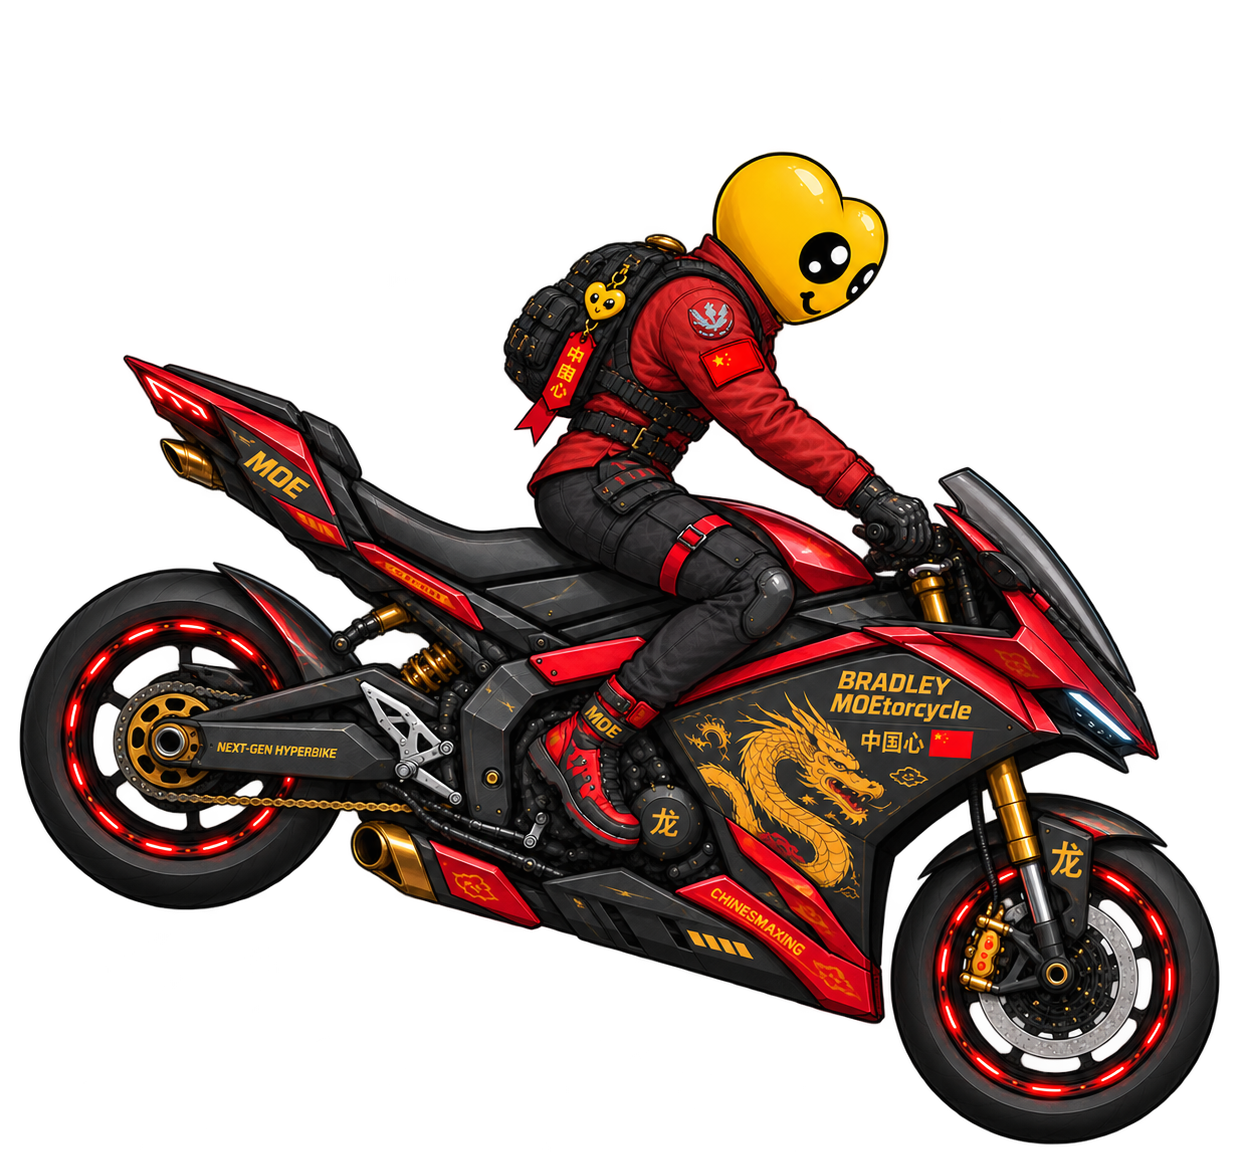
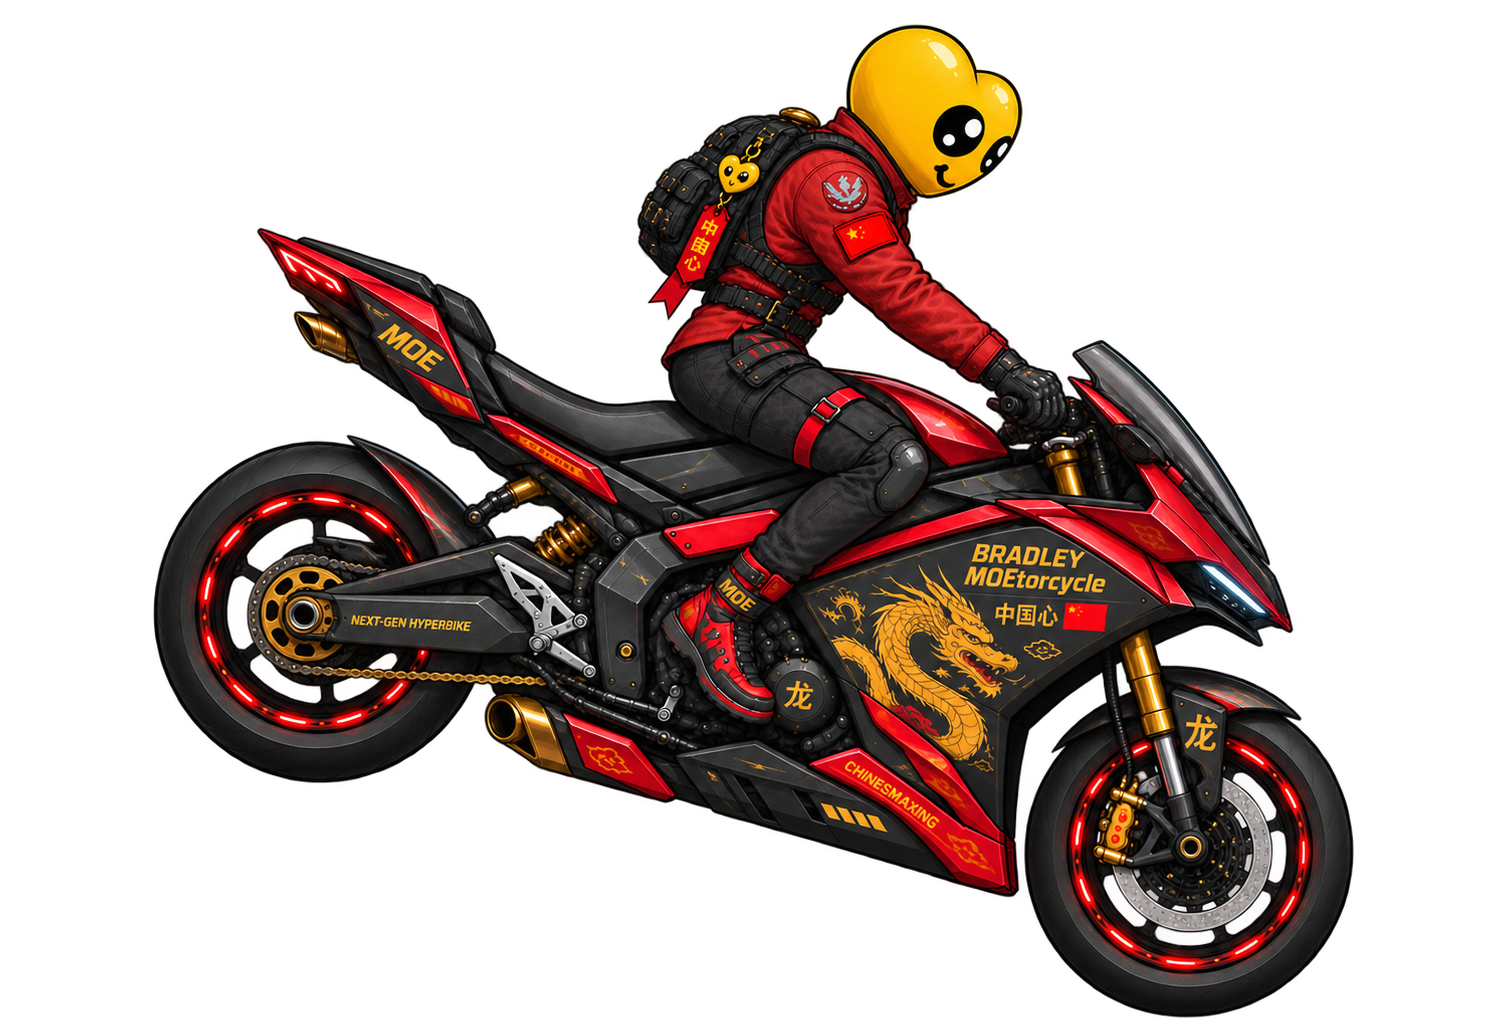
MOEtorcycles: fix Bradley frames clipping the bike front
Bradley's regenerated wheelie_01 and crash_02 are 1536x1024 while his other
poses are 1254x1254. Shared-crop clamped the crop to the narrower width and cut
off the front of the bike on the wider frames. Switch Bradley to the trim +
bottom-center align mode (build_ride_aligned), which trims each pose to its own
content so nothing is clipped; retune scale/wheelFrac (1.62 / 0.986) for the new
aligned canvas.

diff --git a/moetorcycles/game.js b/moetorcycles/game.js
@@ -63,8 +63,8 @@ const RIDES = [
     name: "Bradley",
     tagline: "Next-gen hyperbike. 中国心.",
     cost: 250,
-    scale: 1.5,
-    wheelFrac: 0.90,
+    scale: 1.62,
+    wheelFrac: 0.986,
     frames: {
       ride:    "assets/player_bradley_ride.png",
       wheelie: "assets/player_bradley_wheelie.png",

diff --git a/moetorcycles/build_assets.py b/moetorcycles/build_assets.py
@@ -127,9 +127,11 @@ build_ride_aligned("eggs", {
 })
 
 # ===========================================================================
-#  RIDE: Bradley  (all source frames now transparent — no white-keying needed)
+#  RIDE: Bradley  (frames span TWO canvas sizes — wheelie_01 & crash_02 are
+#  1536x1024, the rest 1254x1254 — so use the trim+align mode, not shared-crop,
+#  or the wider frames get their bike front clipped)
 # ===========================================================================
-build_ride("bradley", {
+build_ride_aligned("bradley", {
     "ride":    "bradley_idle_01.png",
     "wheelie": "bradley_wheelie_01.png",
     "air":     "bradley_airborne_02.png",
